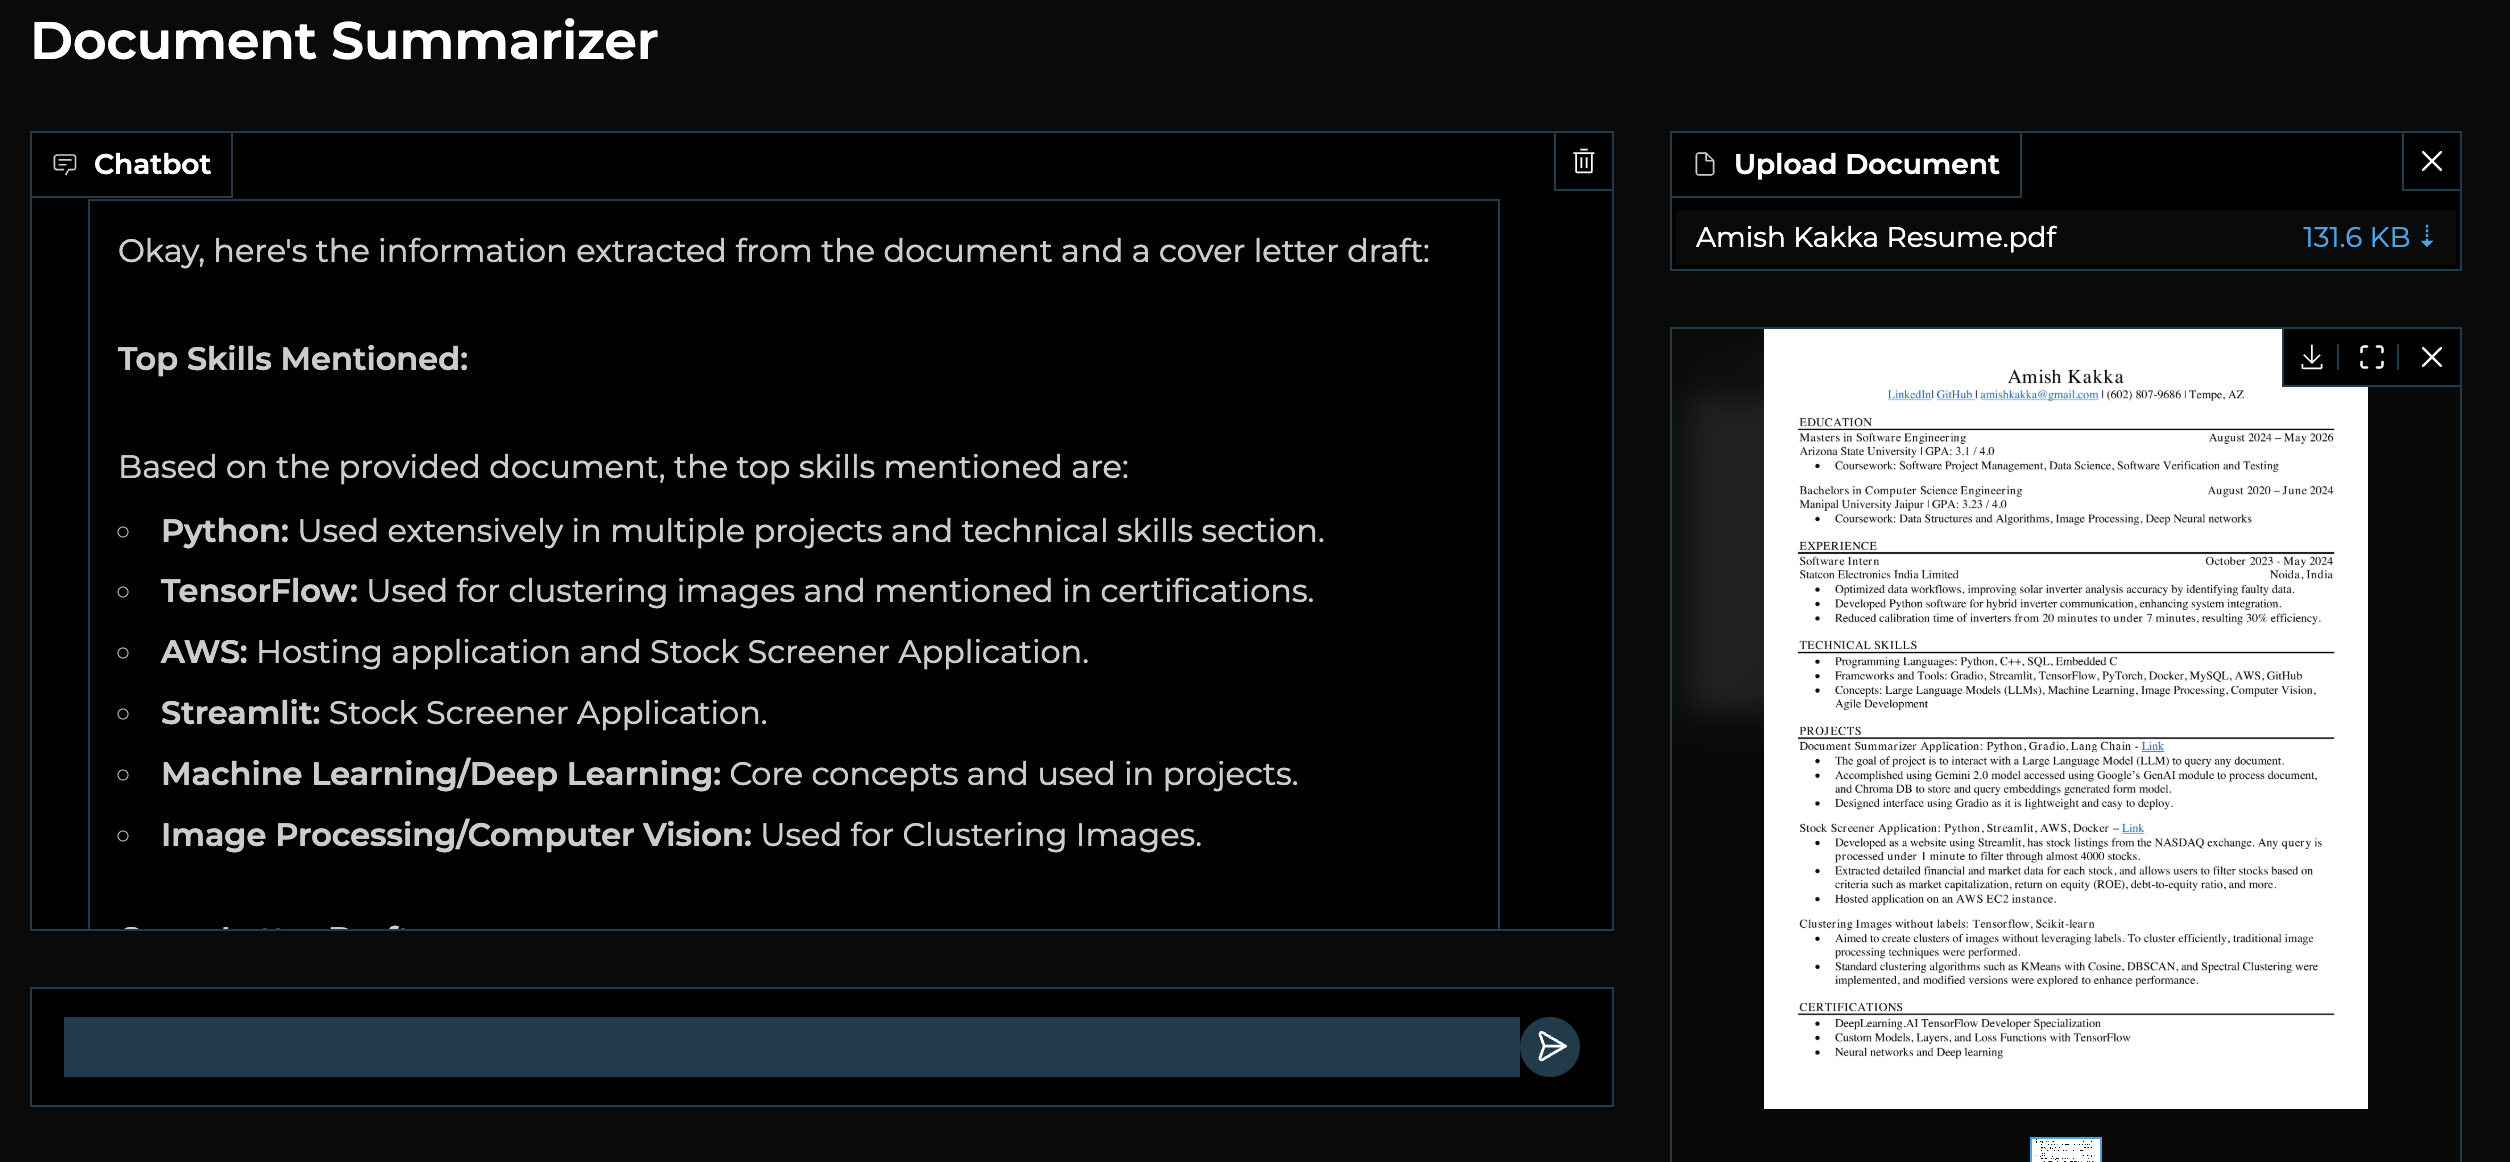
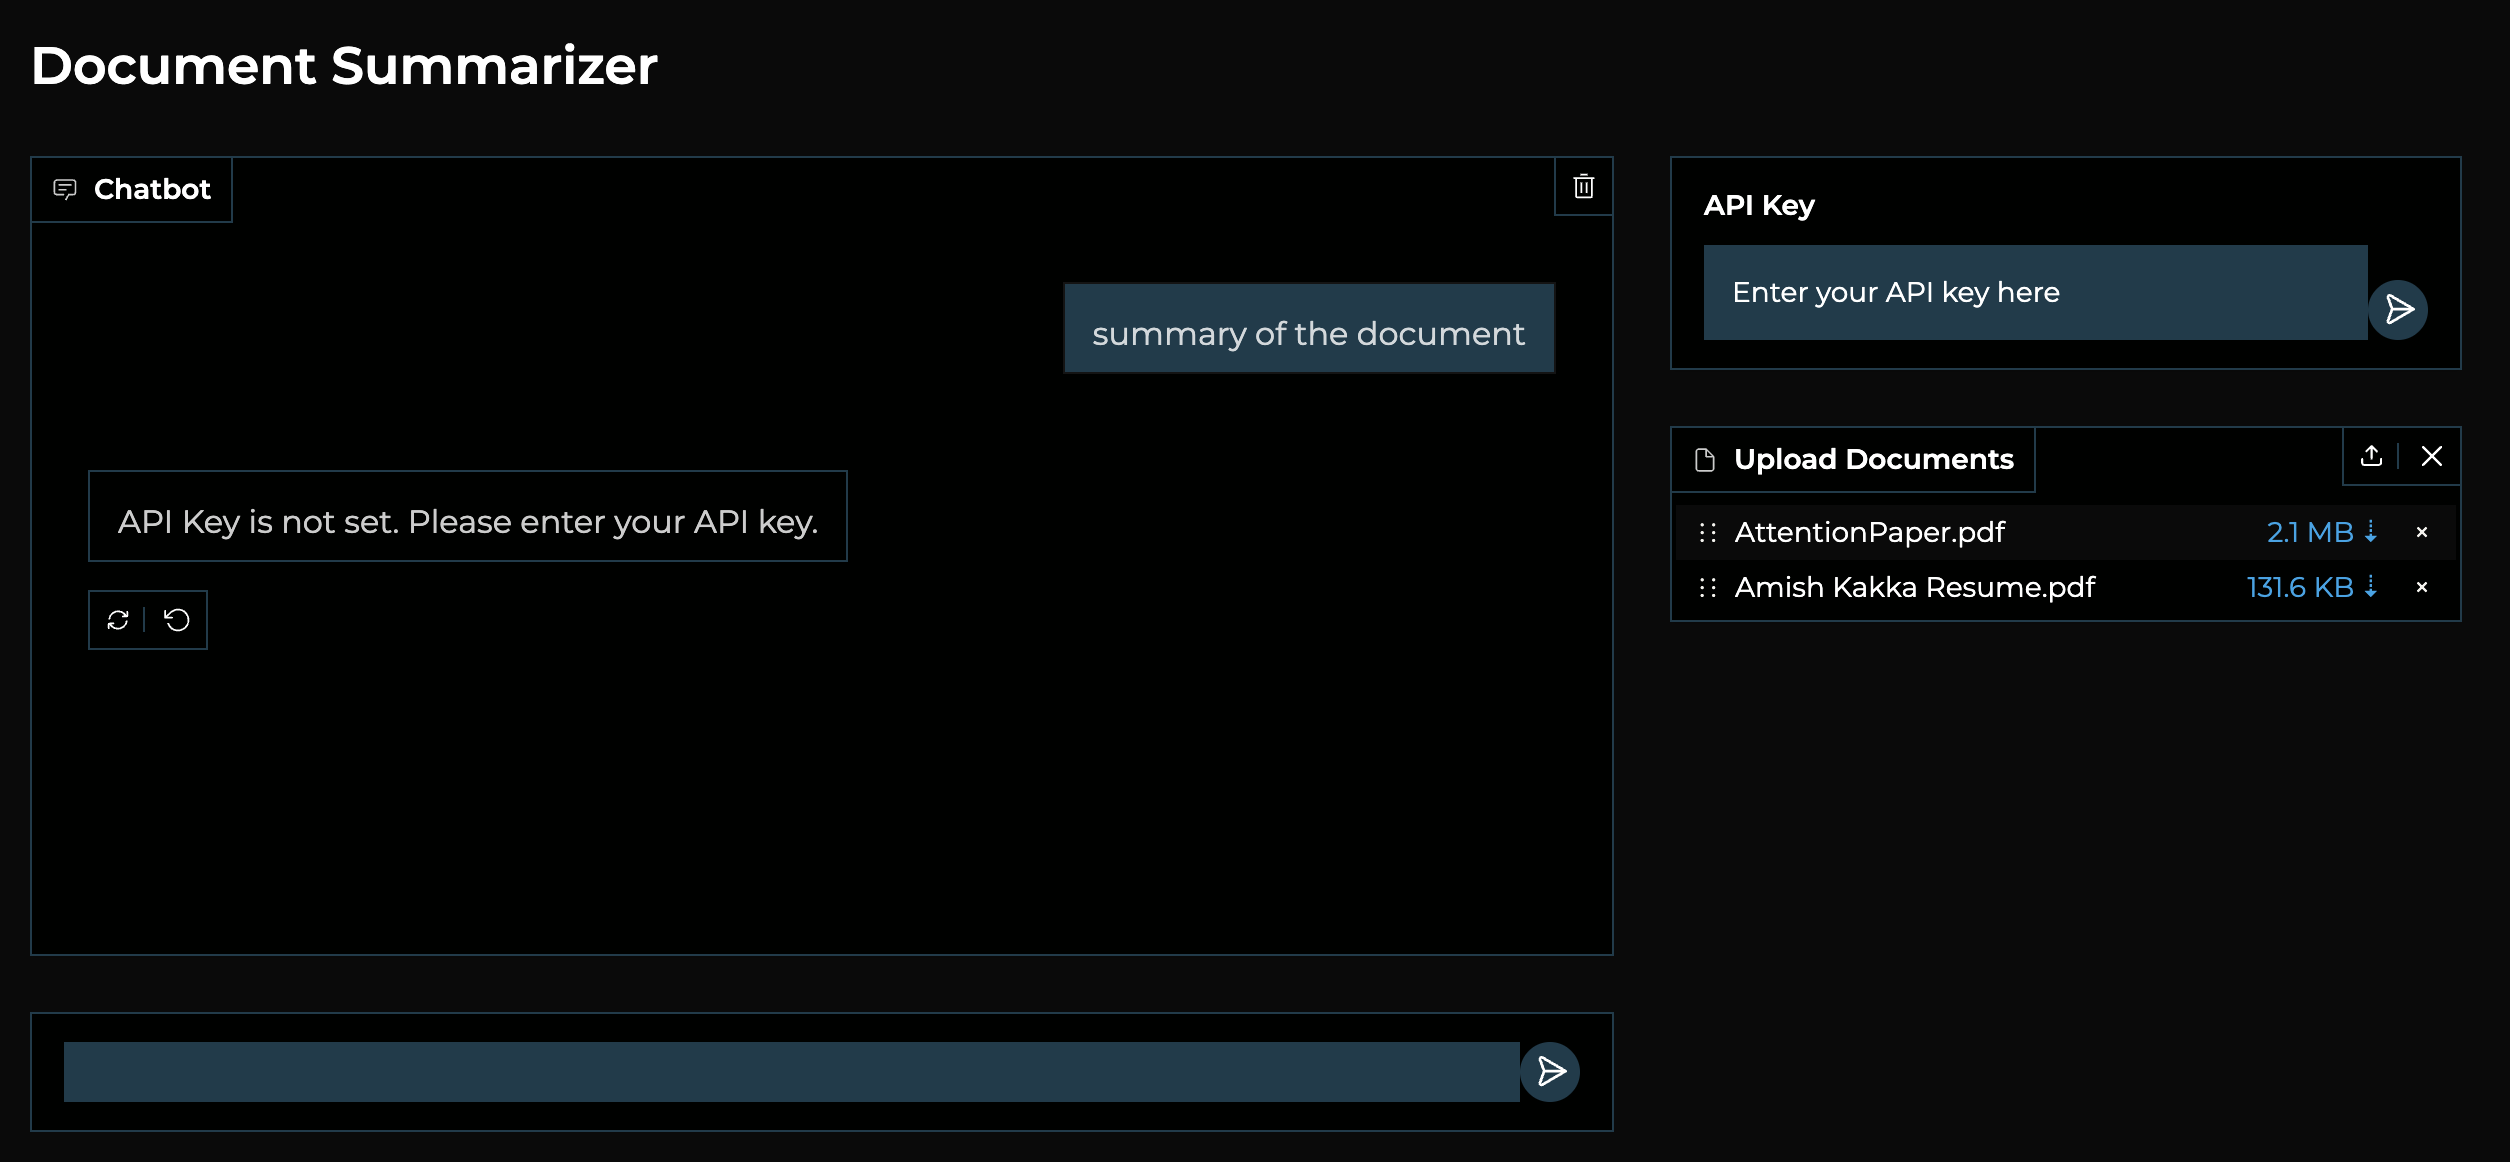
Updated README.md file.

diff --git a/README.md b/README.md
@@ -1,4 +1,4 @@
-# Document-Summarizer v1.1
+# Document-Summarizer v1.2
 
 **Goal**: It is simple, upload your document in PDF format (will work on changing this later) and then query it. Get a summary of any number of words, or get detailed understanding of only a portion of the document.
 
@@ -23,8 +23,6 @@ source env_name/bin/activate
 pip install -r requirements.txt
 ```
 
-3. You need to change the value of 'API_KEY' variable in 3 files - main.py, populateDatabse.py, searchingModel.py files. I will change this so that, user enters the 'API_KEY' in the application itself.
-
 3. Run main.py to access the application in your browser. 
 ```sh
 python3 main.py
@@ -33,4 +31,4 @@ python3 main.py
 # **Pointers** 
 1. The idea is to implement Retreival-Augmented Generation (RAG) and the power of LLMs to generate relevant text.
 2. To store the embeddings of the documents, ChromaDB is used and accessed using the LangChain library.
-3. You can upload only mutiple document at a time and query any document.
+3. You can upload only mutiple documents at a time and query any document.
